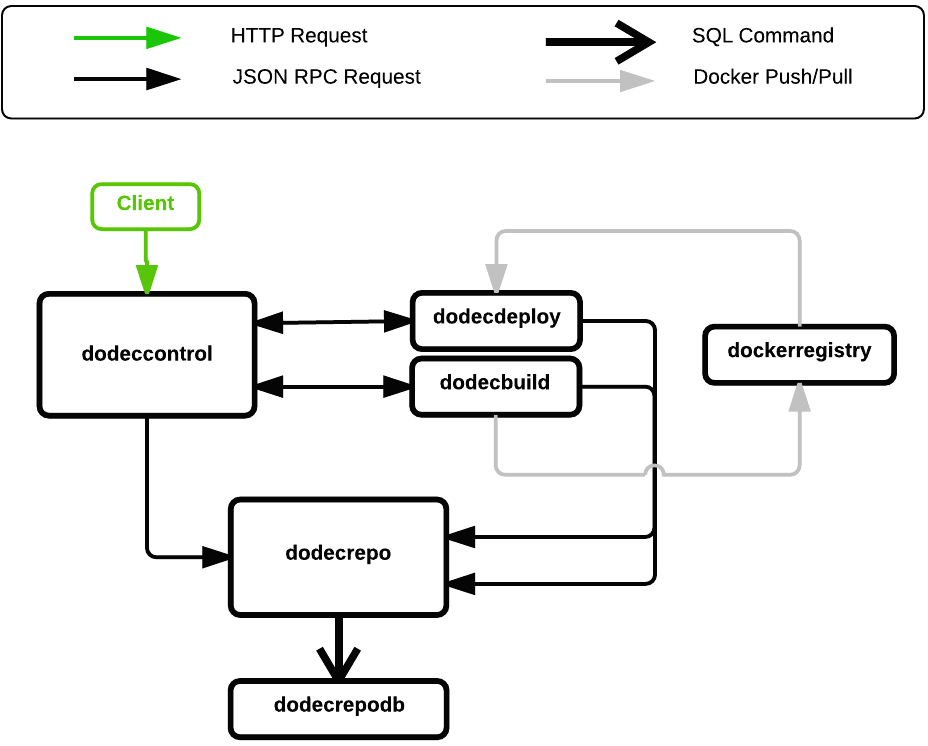
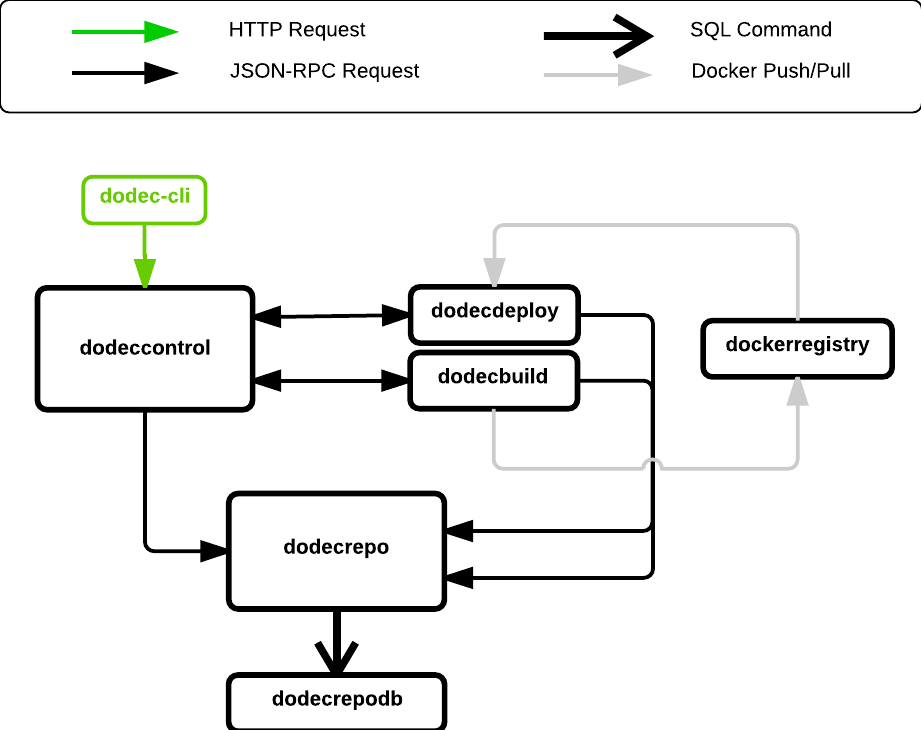
Implement dodec-cli taillogs (streaming logs). Closes #17

diff --git a/dodec-cli/utils.go b/dodec-cli/utils.go
@@ -35,9 +35,9 @@ func req(url string, method string, response interface{}) (err error) {
 
 func newAction(inner func(string, *cli.Context)) (fn func(*cli.Context)) {
 	return func(c *cli.Context) {
-		endpt := strings.Trim(c.GlobalString("endpoint"), " \t\r\n")
+		endpt := strings.Trim(c.GlobalString("endpoint"), " \t\n")
 		if endpt == "" {
-			msg := "No endpoint specified, defaulting to http://localhost:8000. If this is not the correct endpoint, please set the DODEC_ENDPOINT environment variable or use the global \"endpoint\" option (dodec-cli -endpoint <endpoint> [command])."
+			msg := "No endpoint specified, defaulting to http://localhost:8000. If this is not the correct (dodeccontrol) endpoint, please set the DODEC_ENDPOINT environment variable or use the global \"endpoint\" option: dodec-cli -endpoint <endpoint> [command]."
 			fmt.Println(msg)
 			endpt = "http://localhost:8000"
 		}
@@ -81,23 +81,28 @@ func printObj(obj interface{}) {
 	}
 }
 
-func printRows(rows interface{}) {
+func printRows(rows interface{}, header bool) {
 	rowsV := reflect.ValueOf(rows)
 	if rowsV.Len() == 0 {
-		fmt.Println("No results!")
+		if header {
+			fmt.Println("No results!")
+		}
 		return
 	}
 
 	w := new(tabwriter.Writer)
 	w.Init(os.Stdout, 0, 8, 2, '\t', 0)
 
-	colNames := []string{}
-	t := reflect.TypeOf(rowsV.Index(0).Interface())
-	for i := 0; i < t.NumField(); i++ {
-		n := strings.ToUpper(t.Field(i).Name)
-		colNames = append(colNames, n)
+	if header {
+		colNames := []string{}
+		t := reflect.TypeOf(rowsV.Index(0).Interface())
+		for i := 0; i < t.NumField(); i++ {
+			n := strings.ToUpper(t.Field(i).Name)
+			colNames = append(colNames, n)
+		}
+		fmt.Fprintln(w, strings.Join(colNames, "\t"))
 	}
-	fmt.Fprintln(w, strings.Join(colNames, "\t"))
+
 	for i := 0; i < rowsV.Len(); i++ {
 		r := rowsV.Index(i).Interface()
 		v := reflect.ValueOf(r)
@@ -116,7 +121,7 @@ func printRows(rows interface{}) {
 	}
 }
 
-func printLogs(logs []Log) {
+func printLogs(logs []Log, header bool) {
 	type row struct {
 		Timestamp string
 		Message   string
@@ -131,7 +136,7 @@ func printLogs(logs []Log) {
 		rows = append(rows, r)
 	}
 
-	printRows(rows)
+	printRows(rows, header)
 }
 
 func serialize(s string) (serializedS string) {

diff --git a/dodec-cli/cli.go b/dodec-cli/cli.go
@@ -3,6 +3,7 @@ package main
 import (
 	"fmt"
 	"github.com/codegangsta/cli"
+	"strconv"
 	"time"
 )
 
@@ -43,6 +44,7 @@ type DeployDetails struct {
 }
 
 type Log struct {
+	ID       int64
 	TaskUUID string
 	Message  string
 	Severity int
@@ -52,15 +54,19 @@ type Log struct {
 func initApp() (app *cli.App) {
 	app = cli.NewApp()
 	app.Name = "dodec-cli"
+	app.Usage = "CLI client for DodecahedronCI"
+	app.Author = ""
+	app.Version = "0.0.0.1"
+	app.Email = ""
 	app.Flags = []cli.Flag{
 		cli.StringFlag{
 			Name:   "endpoint, e",
-			Usage:  "CLI target endpoint",
+			Usage:  "target dodeccontrol endpoint",
 			EnvVar: "DODEC_ENDPOINT",
 		},
 	}
 	app.Action = func(c *cli.Context) {
-		fmt.Println("Display usage info here...")
+		fmt.Println("Run dodec-cli help for usage info.")
 	}
 
 	app.Commands = []cli.Command{
@@ -94,6 +100,12 @@ func initApp() (app *cli.App) {
 			Usage:     "Get build or deploy logs for the specified UUID",
 			Action:    newAction(getLogs),
 		},
+		{
+			Name:      "taillogs",
+			ShortName: "tl",
+			Usage:     "\"Tail\" the build or deploy log stream for the specified UUID",
+			Action:    newAction(tailLogs),
+		},
 	}
 
 	return app
@@ -108,7 +120,7 @@ func listBuilds(endpt string, c *cli.Context) {
 		panic(err)
 	}
 
-	printRows(builds)
+	printRows(builds, true)
 }
 
 func getBuild(endpt string, c *cli.Context) {
@@ -138,7 +150,7 @@ func listDeploys(endpt string, c *cli.Context) {
 		panic(err)
 	}
 
-	printRows(deploys)
+	printRows(deploys, true)
 }
 
 func getDeploy(endpt string, c *cli.Context) {
@@ -168,5 +180,30 @@ func getLogs(endpt string, c *cli.Context) {
 		panic(err)
 	}
 
-	printLogs(logs)
+	printLogs(logs, true)
+}
+
+func tailLogs(endpt string, c *cli.Context) {
+	first := true
+	var lastID int64
+
+	for {
+		uuid := requireArg(c.Args(), "taillogs", "Build/Deploy UUID", "de08deb8e1b0ce5a")
+		addr := endpt + "task/" + uuid + "/logs?startid=" + strconv.FormatInt(lastID+1, 10)
+
+		var logs []Log
+		err := req(addr, "GET", &logs)
+		if err != nil {
+			panic(err)
+		}
+
+		printLogs(logs, first)
+
+		first = false
+		if len(logs) > 0 {
+			lastID = logs[len(logs)-1].ID
+		}
+
+		time.Sleep(time.Millisecond * 500)
+	}
 }

diff --git a/dodecrepo/sql.go b/dodecrepo/sql.go
@@ -157,12 +157,14 @@ func getBuild(uuid string, connStr string) (b BuildDetails, err error) {
 	s := `
 SELECT t.uuid, a.name, tatt.value, t.started, t.completed, t.success, tart.artifact
 FROM task t
+	LEFT OUTER JOIN task_type tt on tt.id = t.task_type_id
 	LEFT OUTER JOIN task_attribute tatt on tatt.task_id = t.id
 	LEFT OUTER JOIN task_attribute_type tat on tat.id = tatt.task_attribute_type_id
 	LEFT OUTER JOIN task_artifact tart on tart.task_id = t.id
 	LEFT OUTER JOIN application a on a.id = t.application_id
 WHERE t.uuid = $1
 	AND tat.code = 'version'
+	AND tt.code = 'build'
 `
 
 	st, err := db.Prepare(s)
@@ -276,9 +278,11 @@ func getDeploy(uuid string, connStr string) (d DeployDetails, err error) {
 	s := `
 SELECT t.uuid, a.name, t.started, t.completed, t.success, t2.uuid
 FROM task t
+	LEFT OUTER JOIN task_type tt on tt.id = t.task_type_id
 	LEFT OUTER JOIN task t2 on t2.id = t.parent_id
 	LEFT OUTER JOIN application a on a.id = t.application_id
 WHERE t.uuid = $1
+	AND tt.code = 'deploy'
 `
 
 	st, err := db.Prepare(s)
@@ -422,18 +426,20 @@ INSERT INTO task_log (task_id, severity, message, created)
 	return nil
 }
 
-func getLogs(taskUUID string, severity int, connStr string) (logs []Log, err error) {
+func getLogs(taskUUID string, severity int, startID int64, connStr string) (logs []Log, err error) {
 	db, err := getDB(connStr)
 	if err != nil {
 		return nil, err
 	}
 
 	s := `
-SELECT t.uuid, tl.message, tl.severity, tl.created
+SELECT tl.id, t.uuid, tl.message, tl.severity, tl.created
 FROM task_log tl
 	INNER JOIN task t on t.id = tl.task_id
 WHERE tl.severity >= $1
 	AND t.uuid = $2
+	AND tl.id >= $3
+ORDER BY tl.id
 `
 
 	st, err := db.Prepare(s)
@@ -441,12 +447,12 @@ WHERE tl.severity >= $1
 		return nil, err
 	}
 
-	rows, err := st.Query(severity, taskUUID)
+	rows, err := st.Query(severity, taskUUID, startID)
 
 	logs = make([]Log, 0)
 	for rows.Next() {
 		l := Log{}
-		err = rows.Scan(&l.TaskUUID, &l.Message, &l.Severity, &l.Created)
+		err = rows.Scan(&l.ID, &l.TaskUUID, &l.Message, &l.Severity, &l.Created)
 		if err != nil {
 			return nil, err
 		}

diff --git a/dodeccontrol/http.go b/dodeccontrol/http.go
@@ -158,9 +158,11 @@ func handleGetDeploy(w http.ResponseWriter, r *http.Request) {
 
 func handleGetLogs(w http.ResponseWriter, r *http.Request) {
 	vars := mux.Vars(r)
-	sevStr := r.URL.Query().Get("sev")
+	sevStr := r.URL.Query().Get("severity")
+	startIDStr := r.URL.Query().Get("startid")
 
 	var sev int
+	var startID int64
 	var err error
 	if sevStr != "" {
 		sev, err = strconv.Atoi(sevStr)
@@ -168,8 +170,15 @@ func handleGetLogs(w http.ResponseWriter, r *http.Request) {
 			panic("Error parsing severity from query string: " + err.Error())
 		}
 	}
+	if startIDStr != "" {
+		startID32, err := strconv.Atoi(startIDStr)
+		if err != nil {
+			panic("Error parsing startID from query string: " + err.Error())
+		}
+		startID = int64(startID32)
+	}
 
-	ls, err := rpcGetLogs(vars["id"], sev)
+	ls, err := rpcGetLogs(vars["id"], sev, startID)
 	if err != nil {
 		panic("Error getting logs: " + err.Error())
 	}

diff --git a/dodeccontrol/di.go b/dodeccontrol/di.go
@@ -204,7 +204,7 @@ var rpcSaveLog = func(l Log) (err error) {
 	return nil
 }
 
-var rpcGetLogs = func(taskUUID string, severity int) (ls []Log, err error) {
+var rpcGetLogs = func(taskUUID string, severity int, startID int64) (ls []Log, err error) {
 	addr := os.Getenv("DODEC_REPOADDR")
 	if addr == "" {
 		return nil, errors.New("Missing environment variable: DODEC_REPOADDR")
@@ -220,9 +220,11 @@ var rpcGetLogs = func(taskUUID string, severity int) (ls []Log, err error) {
 	args := struct {
 		TaskUUID string
 		Severity int
+		StartID  int64
 	}{
 		TaskUUID: taskUUID,
 		Severity: severity,
+		StartID:  startID,
 	}
 
 	err = c.Call("LogRepo.GetAll", args, &ls)

diff --git a/dodeccontrol/rpc.go b/dodeccontrol/rpc.go
@@ -2,7 +2,6 @@ package main
 
 import (
 	"errors"
-	"fmt"
 	"net"
 	"net/rpc"
 	"net/rpc/jsonrpc"
@@ -46,8 +45,6 @@ func (rpcL *RPCLogger) Write(log string, success *bool) (err error) {
 	if err != nil {
 		return err
 	}
-
-	fmt.Printf("logged: %v\n", l)
 
 	return nil
 }

diff --git a/dodecrepo/rpc.go b/dodecrepo/rpc.go
@@ -230,7 +230,7 @@ func (*RPCLogRepo) GetAll(lq LogQuery, ls *[]Log) (err error) {
 		return err
 	}
 
-	*ls, err = getLogs(lq.TaskUUID, lq.Severity, c)
+	*ls, err = getLogs(lq.TaskUUID, lq.Severity, lq.StartID, c)
 	if err != nil {
 		return err
 	}

diff --git a/dodecrepo/repo.go b/dodecrepo/repo.go
@@ -56,9 +56,11 @@ type Artifact struct {
 type LogQuery struct {
 	TaskUUID string
 	Severity int
+	StartID  int64
 }
 
 type Log struct {
+	ID       int64
 	TaskUUID string
 	Message  string
 	Severity int

diff --git a/dodeccontrol/control.go b/dodeccontrol/control.go
@@ -48,6 +48,7 @@ type DeployDetails struct {
 }
 
 type Log struct {
+	ID       int64
 	TaskUUID string
 	Message  string
 	Severity int
